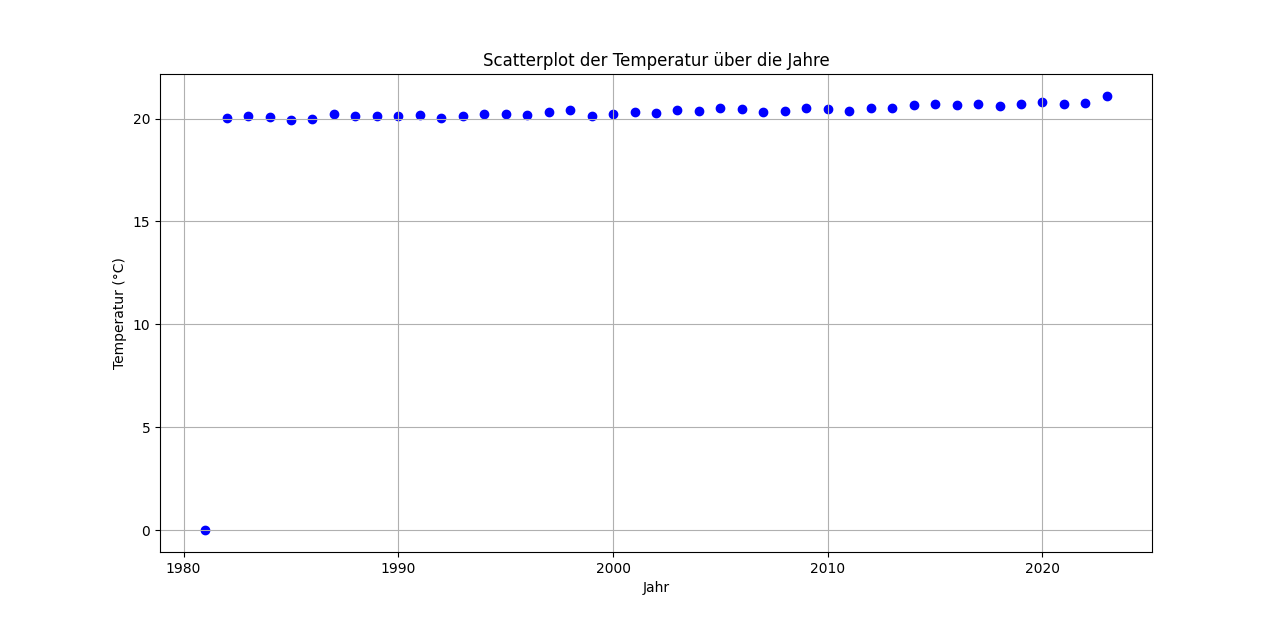
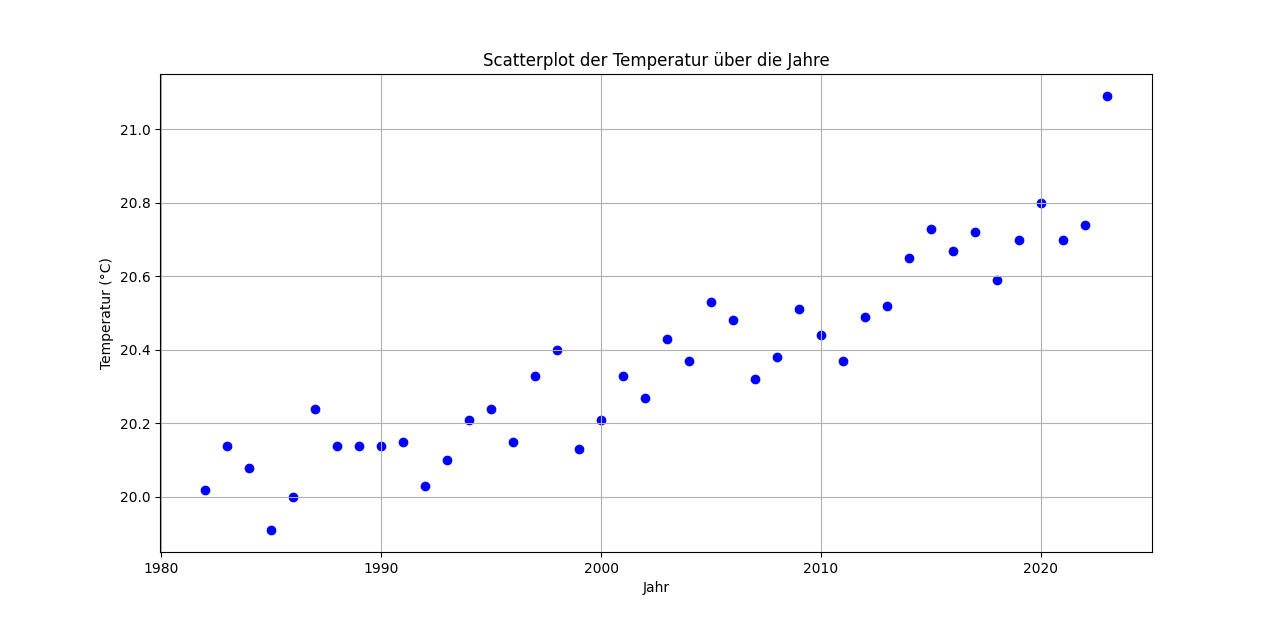
yo

diff --git a/Datensatz1/Code1/R1.13.py b/Datensatz1/Code1/R1.13.py
@@ -1,8 +1,8 @@
 import matplotlib.pyplot as plt
 
 
-jahre = [1981, 1982, 1983, 1984, 1985, 1986, 1987, 1988, 1989, 1990, 1991, 1992, 1993, 1994, 1995, 1996, 1997, 1998, 1999, 2000, 2001, 2002, 2003, 2004, 2005, 2006, 2007, 2008, 2009, 2010, 2011, 2012, 2013, 2014, 2015, 2016, 2017, 2018, 2019, 2020, 2021, 2022, 2023]
-temperaturen = [0.00, 20.02, 20.14, 20.08, 19.91, 20, 20.24, 20.14, 20.14, 20.14, 20.15, 20.03, 20.1, 20.21, 20.24, 20.15, 20.33, 20.4, 20.13, 20.21, 20.33, 20.27, 20.43, 20.37, 20.53, 20.48, 20.32, 20.38, 20.51, 20.44, 20.37, 20.49, 20.52, 20.65, 20.73, 20.67, 20.72, 20.59, 20.7, 20.8, 20.7, 20.74, 21.09]
+jahre = [1982, 1983, 1984, 1985, 1986, 1987, 1988, 1989, 1990, 1991, 1992, 1993, 1994, 1995, 1996, 1997, 1998, 1999, 2000, 2001, 2002, 2003, 2004, 2005, 2006, 2007, 2008, 2009, 2010, 2011, 2012, 2013, 2014, 2015, 2016, 2017, 2018, 2019, 2020, 2021, 2022, 2023]
+temperaturen = [20.02, 20.14, 20.08, 19.91, 20, 20.24, 20.14, 20.14, 20.14, 20.15, 20.03, 20.1, 20.21, 20.24, 20.15, 20.33, 20.4, 20.13, 20.21, 20.33, 20.27, 20.43, 20.37, 20.53, 20.48, 20.32, 20.38, 20.51, 20.44, 20.37, 20.49, 20.52, 20.65, 20.73, 20.67, 20.72, 20.59, 20.7, 20.8, 20.7, 20.74, 21.09]
 
 
 plt.figure(figsize=(10, 6))

diff --git a/Datensatz1/Code1/R1.21.py b/Datensatz1/Code1/R1.21.py
@@ -1,0 +1,12 @@
+from scipy.stats import spearmanr
+
+data = {'year': [1982, 1983, 1984, 1985, 1986, 1987, 1988, 1989, 1990, 1991, 1992, 1993, 1994, 1995, 1996, 1997, 1998, 1999, 2000, 2001, 2002, 2003, 2004, 2005, 2006, 2007, 2008, 2009, 2010, 2011, 2012, 2013, 2014, 2015, 2016, 2017, 2018, 2019, 2020, 2021, 2022, 2023],
+        'temperature': [20.02, 20.14, 20.08, 19.91, 20, 20.24, 20.14, 20.14, 20.14, 20.15, 20.03, 20.1, 20.21, 20.24, 20.15, 20.33, 20.4, 20.13, 20.21, 20.33, 20.27, 20.43, 20.37, 20.53, 20.48, 20.32, 20.38, 20.51, 20.44, 20.37, 20.49, 20.52, 20.65, 20.73, 20.67, 20.72, 20.59, 20.7, 20.8, 20.7, 20.74, 21.09]}
+
+temperature_ranks = [sorted(data['temperature']).index(x) + 1 for x in data['temperature']]
+
+year_ranks = [sorted(data['year']).index(x) + 1 for x in data['year']]
+
+spearman_coefficient, _ = spearmanr(temperature_ranks, year_ranks)
+
+print("Spearman's Rangkorrelationskoeffizient:", spearman_coefficient)

diff --git a/Datensatz1/Code1/R1.12.py b/Datensatz1/Code1/R1.12.py
@@ -2,7 +2,7 @@ import matplotlib.pyplot as plt
 
 # Dein Datensatz
 temperatures = [
-    0.00, 20.02, 20.14, 20.08, 19.91, 20.00, 20.24, 20.14, 20.14, 20.14, 
+    20.02, 20.14, 20.08, 19.91, 20.00, 20.24, 20.14, 20.14, 20.14, 
     20.15, 20.03, 20.10, 20.21, 20.24, 20.15, 20.33, 20.40, 20.13, 20.21, 
     20.33, 20.27, 20.43, 20.37, 20.53, 20.48, 20.32, 20.38, 20.51, 20.44, 
     20.37, 20.49, 20.52, 20.65, 20.73, 20.67, 20.72, 20.59, 20.70, 20.80, 

diff --git a/Datensatz1/Code1/R1.19.py b/Datensatz1/Code1/R1.19.py
@@ -8,7 +8,7 @@ temperatures = [
     20.70, 20.74, 21.09
 ]
 
-class_intervals = [0, 20, 20.2, 20.4, 20.6, 20.8, 21, 21.2]
+class_intervals = [19.8, 20, 20.2, 20.4, 20.6, 20.8, 21, 21.2]
 
 class_assignments = [sum(1 for temp in temperatures if interval[0] <= temp < interval[1]) for interval in zip(class_intervals, class_intervals[1:])]
 
